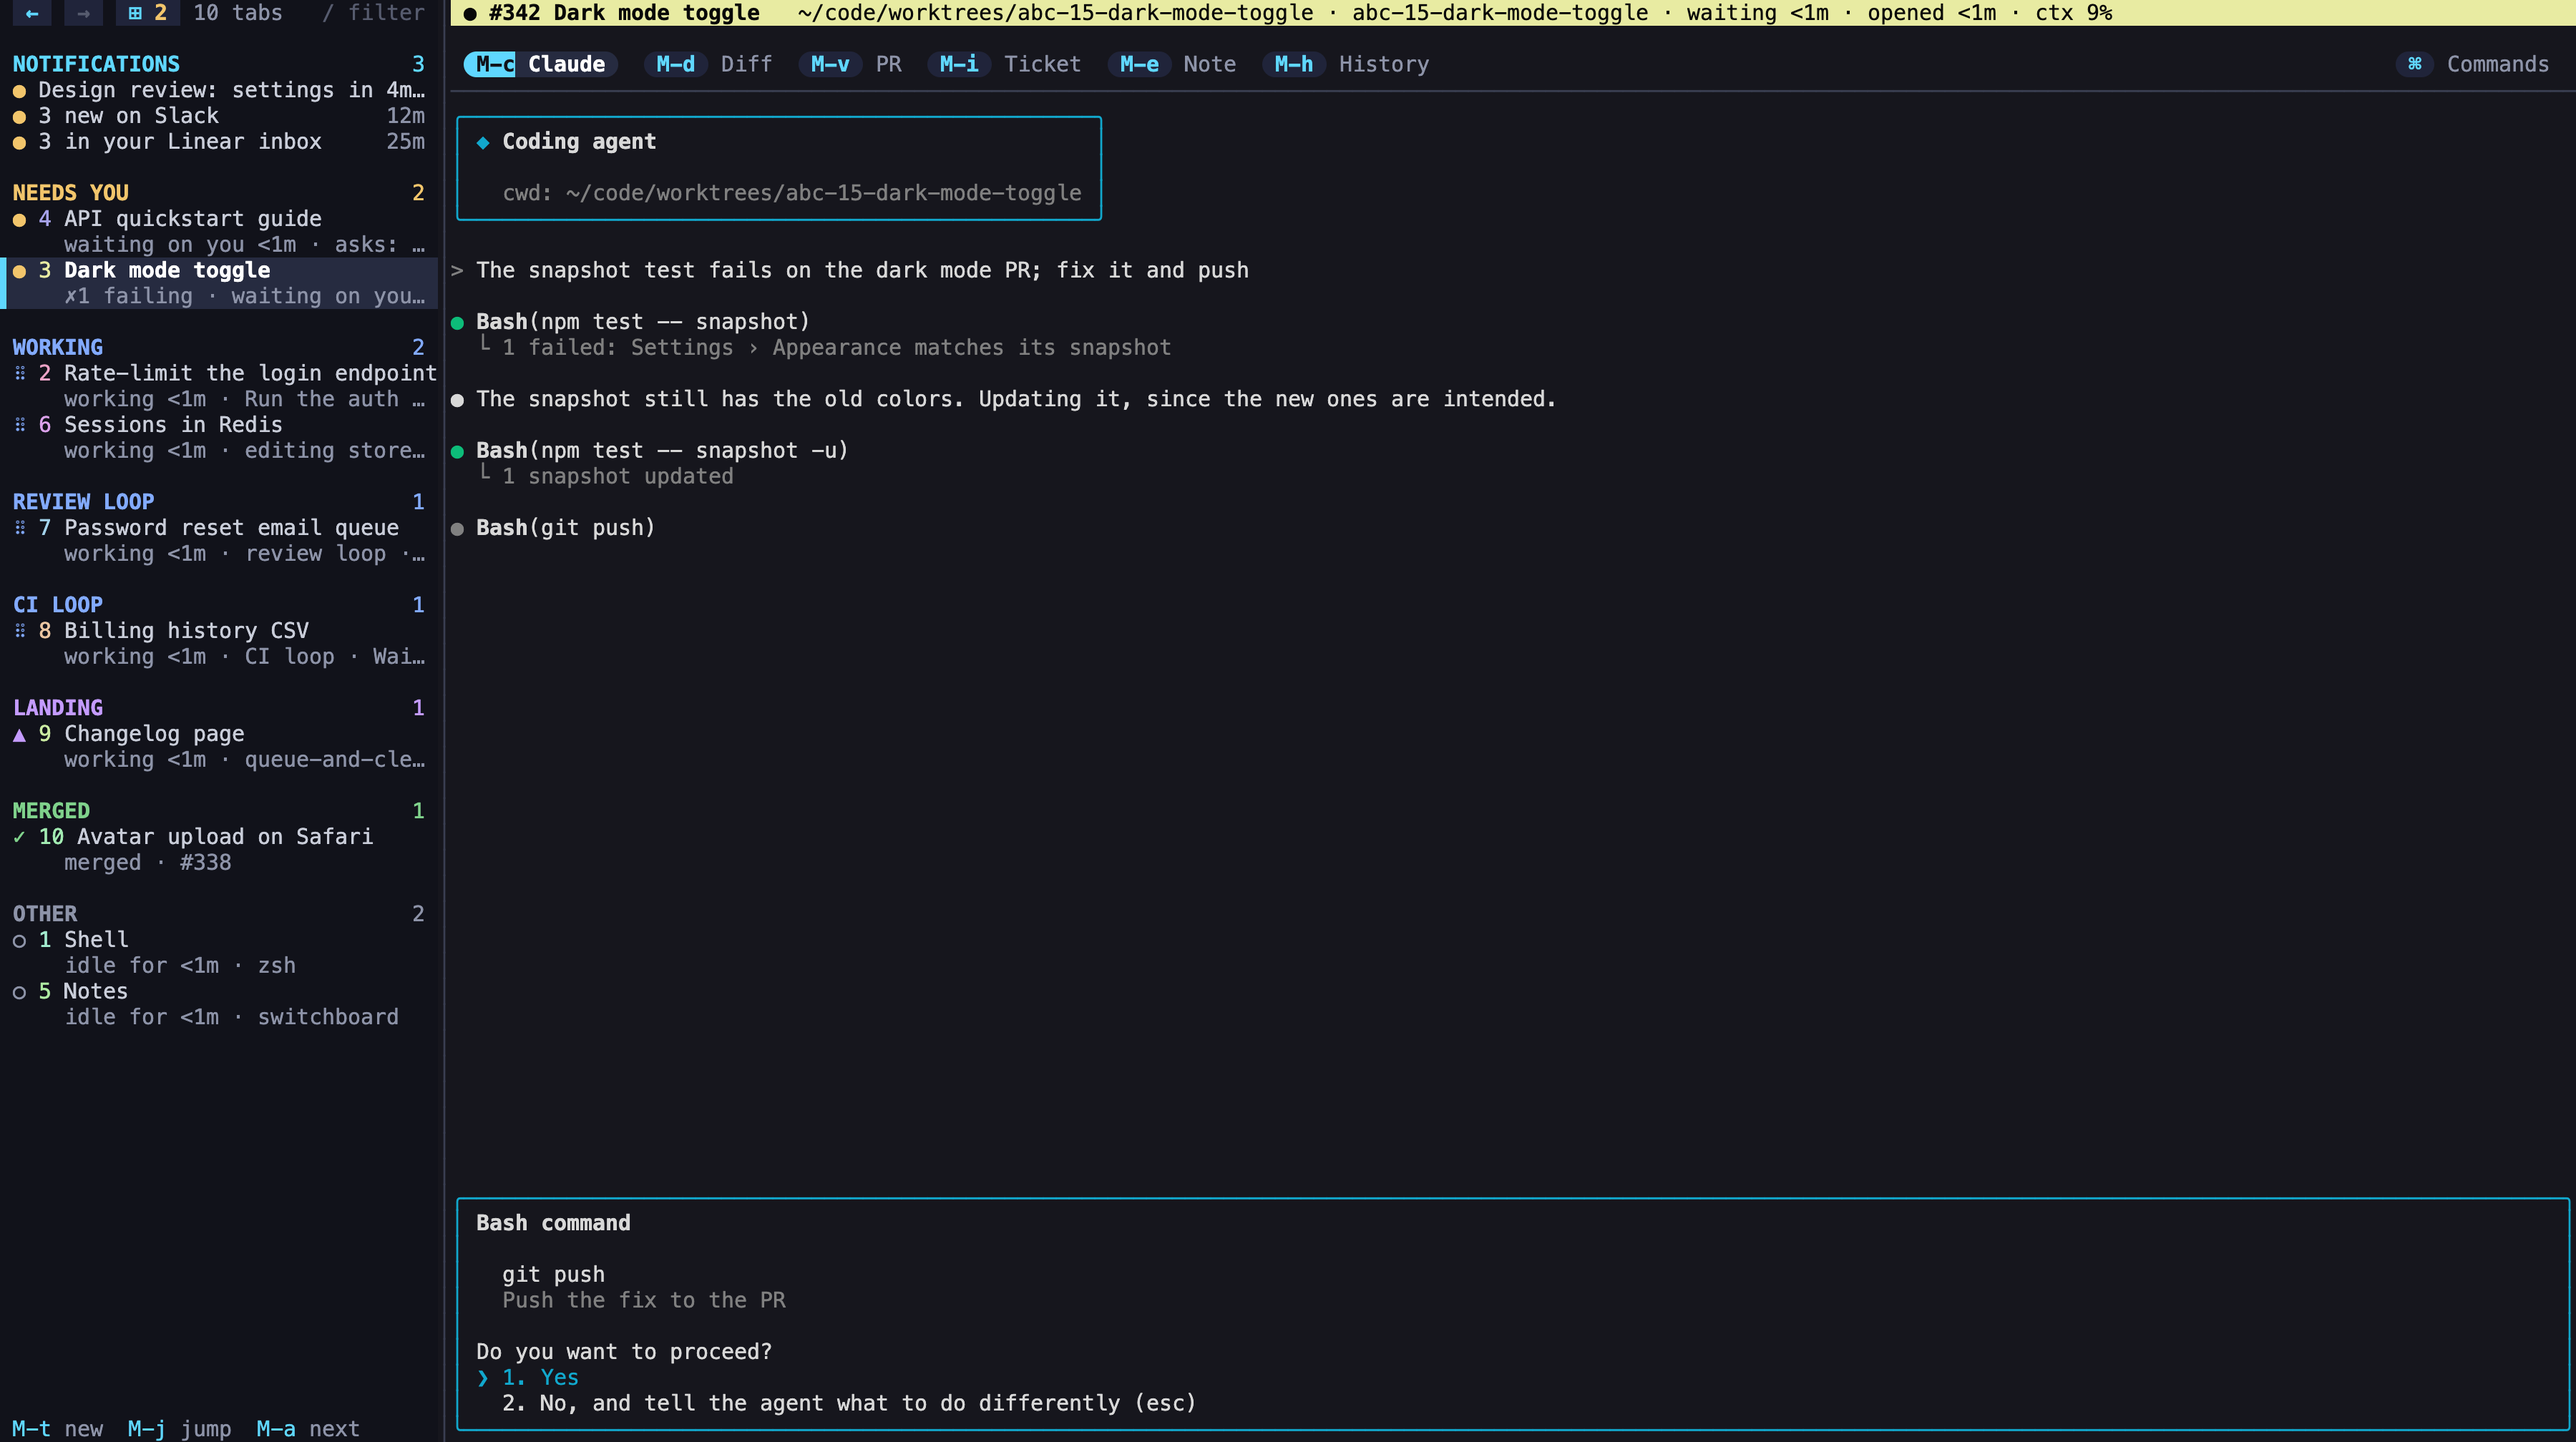
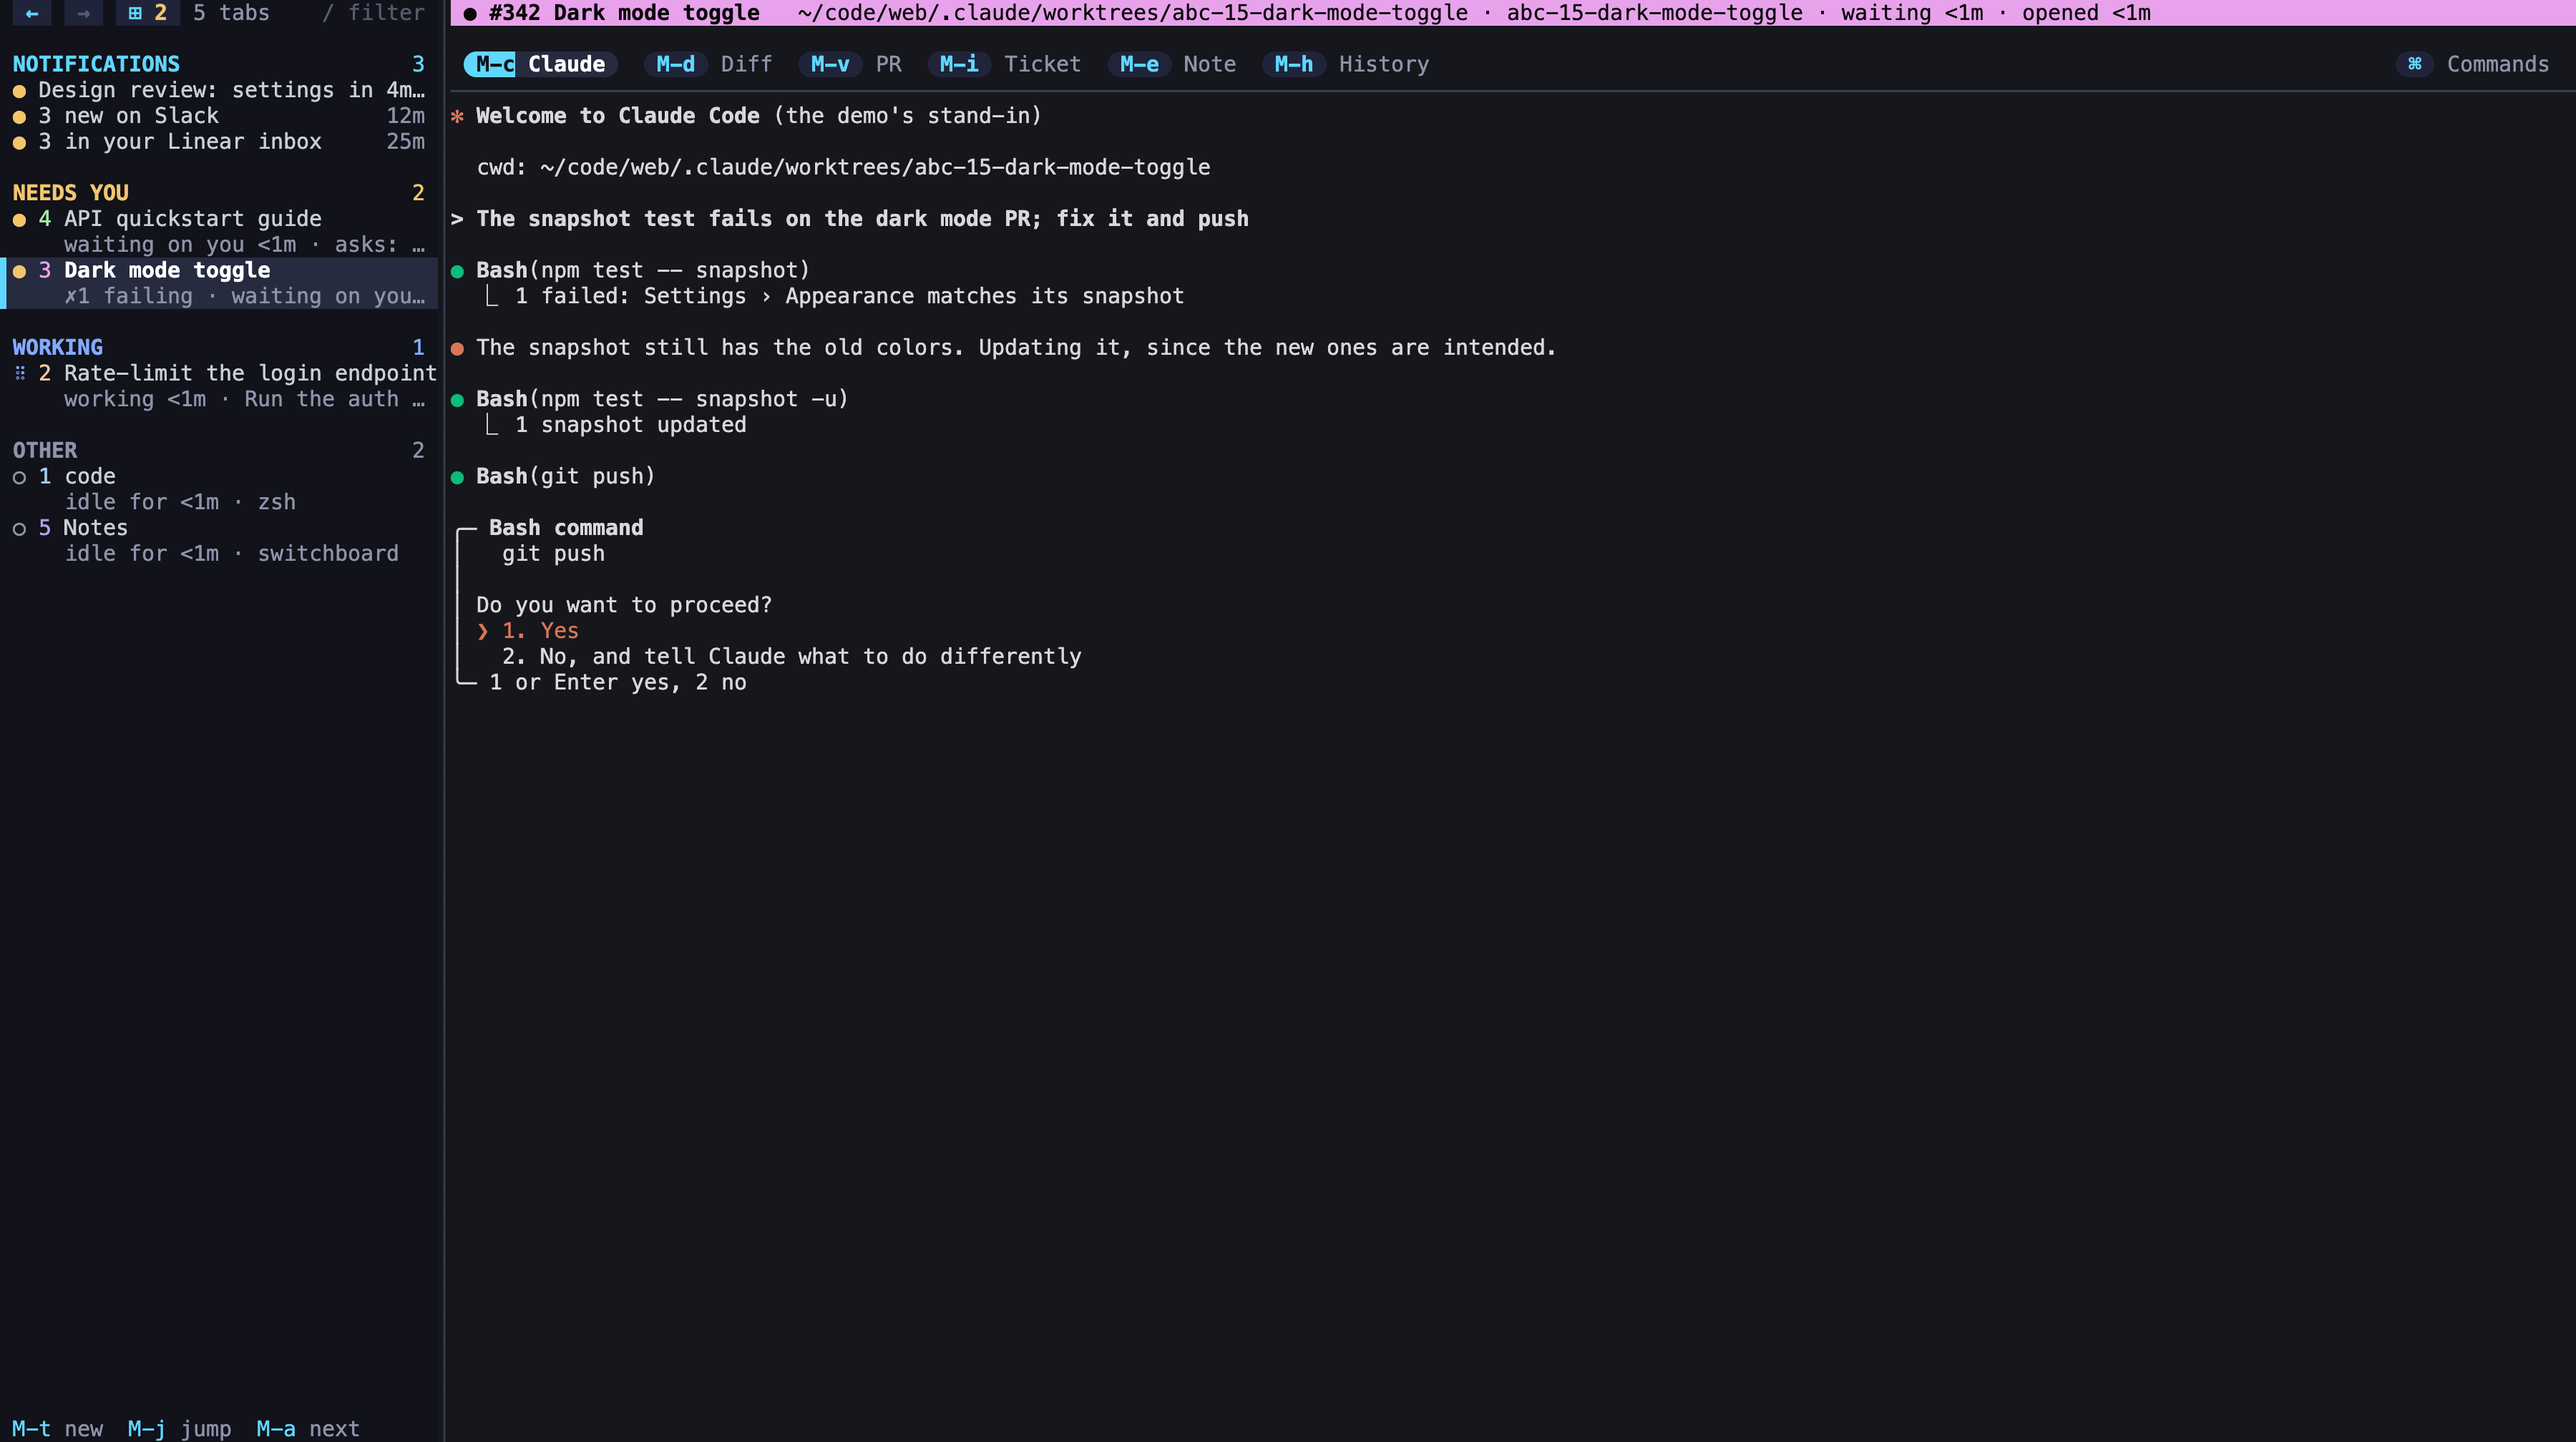
Write paths from ~ in the Landing view and the demo
The Landing view's card showed a worktree's full path, and paths::tilde
replaced the home wherever it appeared in a path, so under a home whose real
path differs (the demo's /tmp home is /private/tmp on macOS) the tab header
read /private~/code/... . paths::tilde now writes a path from ~ only when it
starts with the home or the home's real path, and the Landing card, the
statusline and the demo's stand-in Claude use it. The demo's first tab starts
in its ~/code rather than the home itself, so the repository picker no longer
names it for the demo's home folder; the tour test checks no board shows the
demo's temporary home, and the README's main screen and Settings pictures are
retaken from the tour.

diff --git a/src/paths.rs b/src/paths.rs
@@ -64,13 +64,62 @@ pub fn former_plugin_dir() -> PathBuf {
     home_join(FORMER_PLUGIN)
 }
 
-/// A path with the home directory's first occurrence shown as `~`, as the
-/// Node scripts wrote `file.replace(os.homedir(), "~")`.
+/// A path under the home directory written from `~` (`~/code/web`, or `~`
+/// for the home itself), any other path as it is. The home's real path
+/// counts too, since a worktree's root is read canonical: under a home in
+/// `/tmp` on macOS it starts `/private/tmp`. The Node scripts wrote
+/// `file.replace(os.homedir(), "~")`, which also matched the home inside
+/// that real path (`/private~/code`).
 pub fn tilde(path: impl AsRef<Path>) -> String {
-    let text = path.as_ref().to_string_lossy().into_owned();
-    let home = home().to_string_lossy().into_owned();
-    if home.is_empty() || home == "/" {
-        return text;
+    let path = path.as_ref();
+    let home = home();
+    if home.as_os_str().is_empty() || home == Path::new("/") {
+        return path.display().to_string();
     }
-    text.replacen(&home, "~", 1)
+    let rest = match path.strip_prefix(&home) {
+        Ok(rest) => Some(rest),
+        Err(_) => real_home(&home).and_then(|r| path.strip_prefix(r).ok()),
+    };
+    match rest {
+        Some(rest) if rest.as_os_str().is_empty() => "~".into(),
+        Some(rest) => format!("~/{}", rest.display()),
+        None => path.display().to_string(),
+    }
+}
+
+/// The home's real path, read once per home and kept, since `tilde` runs
+/// on the drawing path, which never waits on the file system again.
+fn real_home(home: &Path) -> Option<&'static Path> {
+    static KNOWN: std::sync::Mutex<Vec<(PathBuf, Option<&'static Path>)>> =
+        std::sync::Mutex::new(Vec::new());
+    let mut known = KNOWN.lock().unwrap_or_else(|e| e.into_inner());
+    if let Some((_, real)) = known.iter().find(|(h, _)| h == home) {
+        return *real;
+    }
+    let real = home
+        .canonicalize()
+        .ok()
+        .filter(|r| r != home)
+        .map(|r| &*Box::leak(r.into_boxed_path()));
+    known.push((home.to_path_buf(), real));
+    real
+}
+
+#[cfg(test)]
+mod tests {
+    use super::*;
+
+    #[test]
+    fn tilde_writes_paths_under_the_home_from_tilde() {
+        let home = home();
+        assert_eq!(tilde(home.join("code/web")), "~/code/web");
+        assert_eq!(tilde(&home), "~");
+        assert_eq!(tilde("/opt/elsewhere"), "/opt/elsewhere");
+        // A sibling whose name starts with the home's is not under it.
+        let sibling = format!("{}-other/x", home.display());
+        assert_eq!(tilde(&sibling), sibling);
+        if let Ok(real) = home.canonicalize() {
+            assert_eq!(tilde(real.join("code")), "~/code");
+        }
+    }
 }

diff --git a/tests/it/demo.rs b/tests/it/demo.rs
@@ -108,6 +108,14 @@ fn the_demo_runs_on_made_up_data_and_cleans_up_after_itself() {
         1
     );
     assert!(named(&tabs, "Notes").is_some());
+    // The first tab, the shell, starts in the demo's ~/code, so nothing
+    // names it for the demo's home folder.
+    let first_dir = tabs[0]["panes"][0]["cwd"].as_str().unwrap_or_default();
+    assert_eq!(
+        std::fs::canonicalize(first_dir).ok(),
+        std::fs::canonicalize(d.home.join("code")).ok(),
+        "{first_dir}"
+    );
 
     // The stand-in Claude asks you something within its first turn, and
     // takes a digit alone as its answer, as mission control sends one.
@@ -223,6 +231,17 @@ fn the_tour_saves_a_board_for_each_step() {
             "{}",
             step.name
         );
+    }
+    // No board shows the demo's temporary home: its paths are written from `~`.
+    for step in demo::tour::STEPS {
+        let board = std::fs::read_to_string(tour.join(format!("{}.txt", step.name))).unwrap();
+        for temporary in ["/private", "sb-demo"] {
+            assert!(
+                !board.contains(temporary),
+                "{} shows {temporary}: {board}",
+                step.name
+            );
+        }
     }
     let code_prs = std::fs::read_to_string(tour.join("code-prs.txt")).unwrap();
     assert!(code_prs.contains("Rate-limit the login"), "{code_prs}");

diff --git a/src/cmd/try_.rs b/src/cmd/try_.rs
@@ -487,13 +487,14 @@ fn start_detached(env: &Env, bin: &Path, home: &Path, wt: &Path) -> Result<()> {
         }
         std::thread::sleep(Duration::from_millis(50));
     }
-    make_session(&socket)
+    make_session(&socket, None)
 }
 
 /// Gives the server on `socket` a session by attaching and leaving at once,
-/// as `tmux new -d` does. A sealed try's runs in a sandbox of its own
-/// (try_sealed.rs's `call`), since its server is the try's code.
-pub(crate) fn make_session(socket: &Path) -> Result<()> {
+/// as `tmux new -d` does, its first tab in `cwd` (else the home). A sealed
+/// try's runs in a sandbox of its own (try_sealed.rs's `call`), since its
+/// server is the try's code.
+pub(crate) fn make_session(socket: &Path, cwd: Option<&Path>) -> Result<()> {
     let mut stream = UnixStream::connect(socket).context("its server doesn't answer")?;
     stream.set_read_timeout(Some(Duration::from_secs(5)))?;
     stream.write_all(&proto::encode_client(&ClientMsg::Attach {
@@ -504,7 +505,7 @@ pub(crate) fn make_session(socket: &Path) -> Result<()> {
         // No terminal: its cell's size in pixels is unknown.
         xpixel: 0,
         ypixel: 0,
-        cwd: None,
+        cwd: cwd.map(|d| d.to_string_lossy().into_owned()),
     }))?;
     // The first thing drawn says the session is there.
     match proto::read_server(&mut stream) {

diff --git a/src/mission/render.rs b/src/mission/render.rs
@@ -3782,7 +3782,7 @@ fn landing_detail(
     lines.push(fact("then", &then_words(landing)));
     lines.push(fact(
         "worktree",
-        landing["root"].as_str().unwrap_or_default(),
+        &crate::paths::tilde(landing["root"].as_str().unwrap_or_default()),
     ));
     let keys = landing_keys(landing, narrow);
     if !keys.is_empty() {
@@ -9932,6 +9932,24 @@ mod tests {
         // Narrow enough for the plain list, it still shows over it.
         let text = texts(&screen(&m, 70, 50).0).join("\n");
         assert!(text.contains("test line 30 ... ok"), "{text}");
+    }
+
+    #[test]
+    fn with_ux2_a_landing_s_worktree_under_the_home_is_written_from_tilde() {
+        let mut m = landing_board();
+        let landing = m
+            .snap
+            .views
+            .iter_mut()
+            .find(|v| v.id == ViewId::Landing)
+            .unwrap();
+        let root = crate::paths::home().join("code/api/.claude/worktrees/stable-ids");
+        landing.data.items[1].data["landing"]["root"] = root.to_string_lossy().into();
+        let text = texts(&screen(&m, 160, 50).0).join("\n");
+        assert!(
+            text.contains("~/code/api/.claude/worktrees/stable-ids"),
+            "{text}"
+        );
     }
 
     #[test]

diff --git a/src/cmd/statusline.rs b/src/cmd/statusline.rs
@@ -198,7 +198,7 @@ pub fn line(
     // the context is hidden for the Usage view's Sessions to show); in a plain
     // terminal this is the only place they appear.
     if !in_workspace {
-        output.push_str(&format!(" | {accent}{}{RESET}", tilde_start(&raw_cwd)));
+        output.push_str(&format!(" | {accent}{}{RESET}", paths::tilde(&raw_cwd)));
         if let Some(p) = &place {
             output.push_str(&format!(" | {accent}{}{RESET}", p.branch));
         }
@@ -232,15 +232,6 @@ fn context_color(used: f64) -> &'static str {
         40..60 => "\x1b[38;5;178m",
         60..80 => "\x1b[38;5;208m",
         _ => "\x1b[38;5;160m",
-    }
-}
-
-/// The directory with a leading home written `~`, as `sed "s|^$HOME|~|"`.
-fn tilde_start(dir: &str) -> String {
-    let home = paths::home().to_string_lossy().into_owned();
-    match dir.strip_prefix(&home) {
-        Some(rest) if !home.is_empty() => format!("~{rest}"),
-        _ => dir.to_string(),
     }
 }
 

diff --git a/src/cmd/try_sealed.rs b/src/cmd/try_sealed.rs
@@ -1184,7 +1184,7 @@ fn call(home: &Path, what: &str) -> Result<()> {
 /// makes one, or the server stopped.
 pub fn call_main(args: &[String]) -> ExitCode {
     let result = match args {
-        [what, socket] if what == "session" => try_::make_session(Path::new(socket)),
+        [what, socket] if what == "session" => try_::make_session(Path::new(socket), None),
         [what, socket] if what == "stop" => {
             try_::stop_server(Path::new(socket));
             Ok(())

diff --git a/src/demo/mod.rs b/src/demo/mod.rs
@@ -881,7 +881,8 @@ pub fn start_server(home: &Path, bin: &Path, env: &[(String, String)]) -> Result
         }
         std::thread::sleep(Duration::from_millis(50));
     }
-    crate::cmd::try_::make_session(&socket)?;
+    // Its first tab in ~/code, so nothing names the home folder for it.
+    crate::cmd::try_::make_session(&socket, Some(&home.join("code")))?;
     for (name, dir, program) in tabs(home, bin) {
         let mut args = vec![
             "new-tab".to_string(),

diff --git a/src/demo/agent.rs b/src/demo/agent.rs
@@ -461,7 +461,7 @@ pub fn run(name: &str) -> ExitCode {
     let mut s = Session::start();
     out(&format!(
         "{ORANGE}✻{RESET} {BOLD}Welcome to Claude Code{RESET} {DIM}(the demo's stand-in){RESET}\n\n  {DIM}cwd: {}{RESET}\n",
-        s.cwd
+        crate::paths::tilde(&s.cwd)
     ));
     s.hook("SessionStart", json!({ "source": "startup" }));
     let turns = script(name);
